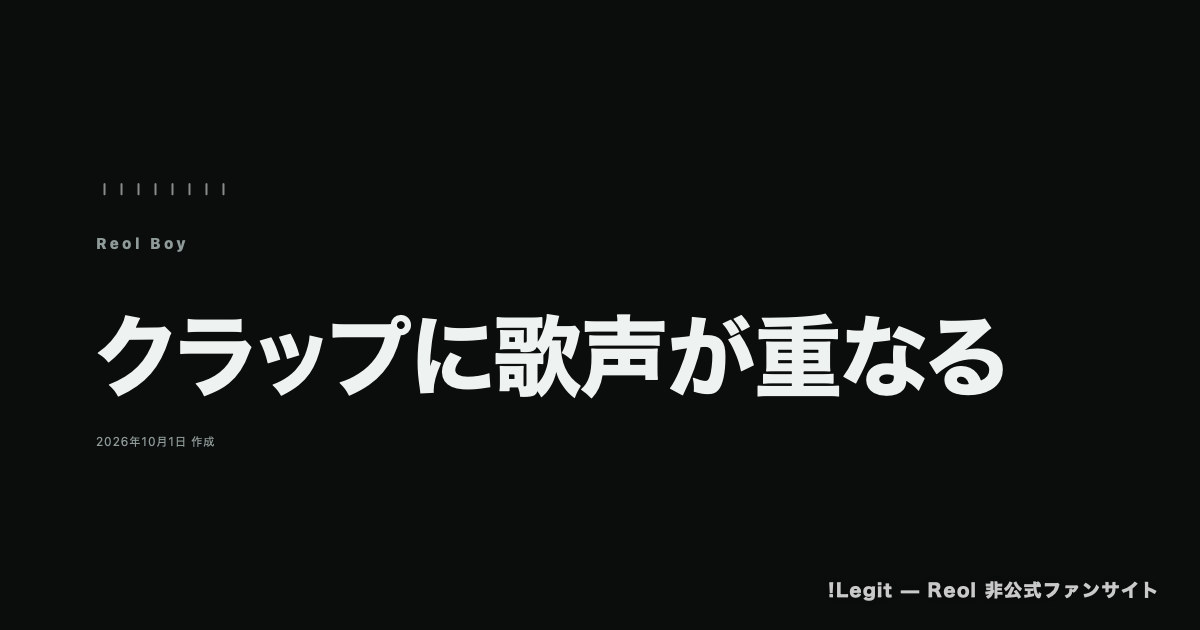
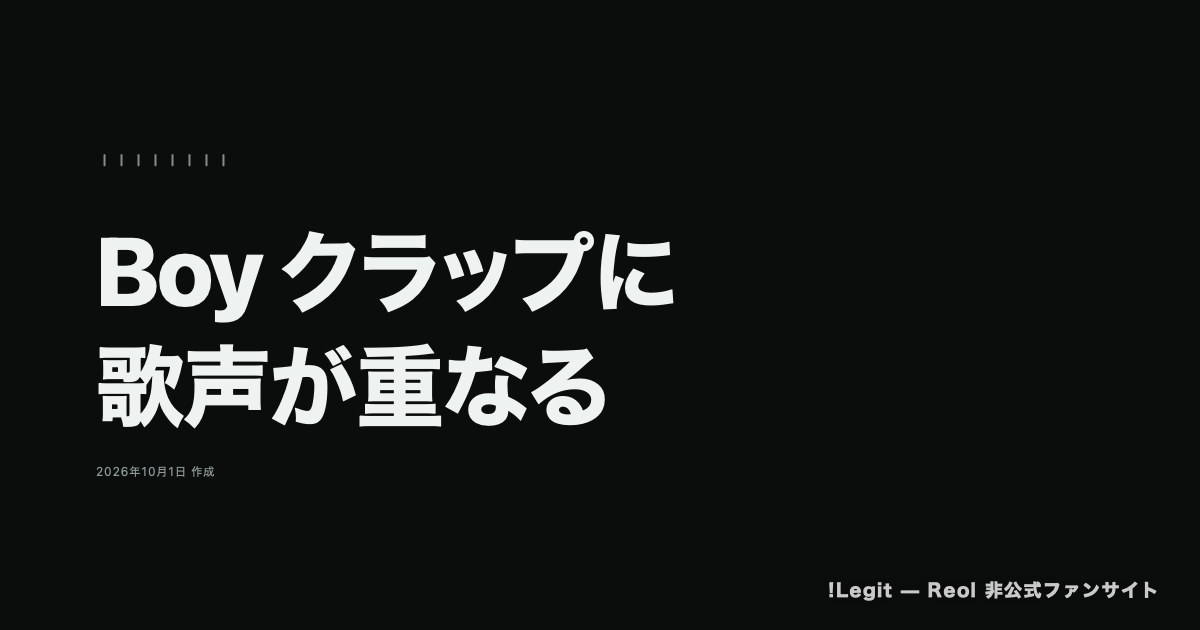
feat: エンド・真空オールドローズ・Boy の題名から「Reol」を外す(原稿に合わせて題名の行だけ差し替え、OGP 撮り直し)

Changed region(s): [[0.0617, 0.3619, 0.8325, 0.754], [0.0925, 0.2413, 0.185, 0.2714]]

diff --git a/src/utils/songArticles/designManifest.ts b/src/utils/songArticles/designManifest.ts
@@ -54,7 +54,7 @@ export const DESIGN_MANIFEST: Record<string, DesignManifestEntry> = {
   // エンド(plan/40)。MV(0)・Spotify(1)・冒頭(2)・見出し(9, 18, 32, 44, 57, 68)・文字の図の前後(12, 13)・「相手」と「自分」の図の前後(26, 27)・献花の前後(50, 51)・届かない電話の図の前後(60, 61)・届く線の前後(72, 73)・結び(82)
   "reol-song-046": {
     bodyRevision: 3,
[2 lines of base64/hex data omitted]
     blockCount: 83,
     anchors: [
       { block: 0, textHash: "f808e223725bc280" },
@@ -83,7 +83,7 @@ export const DESIGN_MANIFEST: Record<string, DesignManifestEntry> = {
   // リンクの行(0)・冒頭(1)・見出し(3, 8, 23, 32)・夕陽に染まる衛星都市(21)とその次(22)・蓋をして(46)とその次(47)・結び(50)
   "reol-song-057": {
     bodyRevision: 9,
[2 lines of base64/hex data omitted]
     blockCount: 51,
     anchors: [
       { block: 0, textHash: "60187d5eacfb03c0" },
@@ -151,7 +151,7 @@ export const DESIGN_MANIFEST: Record<string, DesignManifestEntry> = {
   // Boy(plan/30)。一言(1)・欄外の注記(2: 収録作、5: 演奏記録)・帯(5の前、8の前)・結び(8)
   "reol-song-080": {
     bodyRevision: 1,
[2 lines of base64/hex data omitted]
     blockCount: 9,
     anchors: [
       { block: 0, textHash: "793a2b7077106c11" },

diff --git a/plan/39-vacuum-oldrose-article-design.md b/plan/39-vacuum-oldrose-article-design.md
@@ -100,3 +100,9 @@
 - 「聴く」のリンクの並びを、表紙の下からページの下部(結びと奥付の間)へ移した(ユーザー「聴く欄はページ下部に持っていってもいいかも」)。
 - 太陽と線を同時に動かした(ユーザー指定): 通り道の線は、太陽が通ったところまで伸びる(太陽が線を引いていく)。全体 4.2秒。動きを減らす設定では線も太陽も完成した状態。
 - 朝焼け(ユーザー「太陽が登った直後は淡いオレンジの朝焼けが表示されていてほしい」): 東の地平線に淡い橙のにじみ。昇り始めてすぐ現れ、太陽が高くなるにつれて消える(動きの最初の約4割)。完成した絵・動く前・動きを減らす設定では出ない。
+
+## 題名から「Reol」を外す(2026-10-13)
+
+- ユーザー「タイトルからReol「」をなくしてください」「Boyも同様」。ユーザーが原稿(Googleドキュメント)の1行目の題名だけを変えた(本文は同じであることを確認)。管理シートの版・掲載記録(sha256)は上げていない。
+- サイトでは掲載中の本文の題名の行だけを原稿に合わせて差し替え、`article.json` と `designManifest.ts` の sha256 を登録し直した(本文版の番号は据え置き。段落とハッシュは変わらない)。OGP 画像を撮り直した。
+- 管理シートの掲載記録の sha256 とは一致しなくなっている。次にこの記事を取り込み直す時は、管理シート側で版を上げてから。

diff --git a/plan/40-end-article-design.md b/plan/40-end-article-design.md
@@ -85,3 +85,9 @@
 
 - WebKit・Chromium のスマートフォン幅(390)・PC 幅(1280)で、4つの図を動きの途中と終わりで撮影。横はみ出しなし、ページエラーなし。型チェック通過。
 - eslint はリポジトリの設定読み込みで失敗するため未実施(この変更とは無関係のエラー)。iPhone 実機は未確認。
+
+## 題名から「Reol」を外す(2026-10-13)
+
+- ユーザー「タイトルからReol「」をなくしてください」「Boyも同様」。ユーザーが原稿(Googleドキュメント)の1行目の題名だけを変えた(本文は同じであることを確認)。管理シートの版・掲載記録(sha256)は上げていない。
+- サイトでは掲載中の本文の題名の行だけを原稿に合わせて差し替え、`article.json` と `designManifest.ts` の sha256 を登録し直した(本文版の番号は据え置き。段落とハッシュは変わらない)。OGP 画像を撮り直した。
+- 管理シートの掲載記録の sha256 とは一致しなくなっている。次にこの記事を取り込み直す時は、管理シート側で版を上げてから。

diff --git a/content/articles/reol-song-057/body.md b/content/articles/reol-song-057/body.md
@@ -1,4 +1,4 @@
-# Reol「真空オールドローズ」――記憶を手放すまで
+# 真空オールドローズ――記憶を手放すまで
 
 聴く：[Spotify](https://open.spotify.com/track/782U3IhpWQR99iaZIuQ4x4)｜[アルバム『事実上』公式情報](https://reol.jp/discography/detail/7/)｜[『事実上』クロスフェード](https://www.youtube.com/watch?v=TMw0zYdcK9I)
 

diff --git a/content/articles/reol-song-046/body.md b/content/articles/reol-song-046/body.md
@@ -1,4 +1,4 @@
-# Reol「エンド」　愛した過去に打つ終止符
+# エンド　愛した過去に打つ終止符
 
 [「エンド」公式MVを観る](https://youtu.be/ZwJs5Zc9oFk)
 

diff --git a/content/articles/reol-song-080/body.md b/content/articles/reol-song-080/body.md
@@ -1,4 +1,4 @@
-# Reol Boy クラップに歌声が重なる
+# Boy クラップに歌声が重なる
 
 [「Boy」のMVを観る](https://www.youtube.com/watch?v=O4oixjzvrZk)
 
